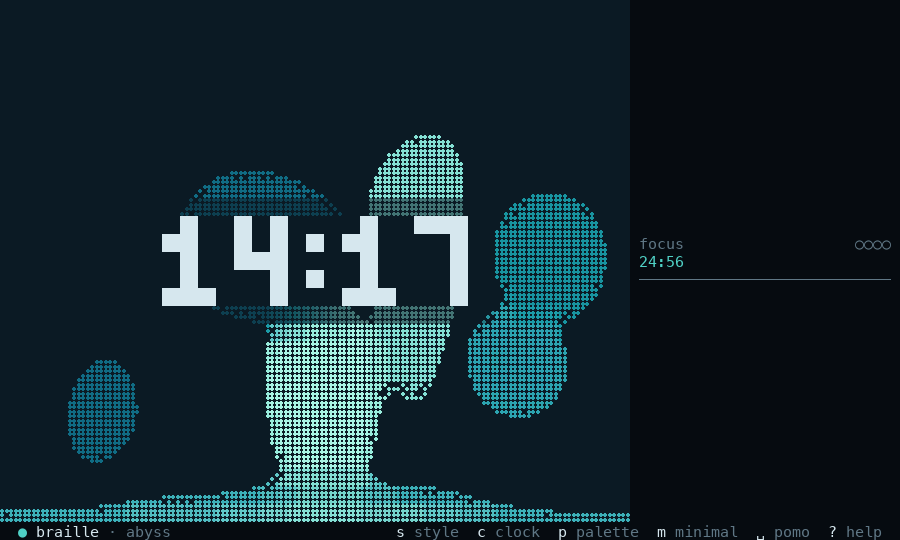
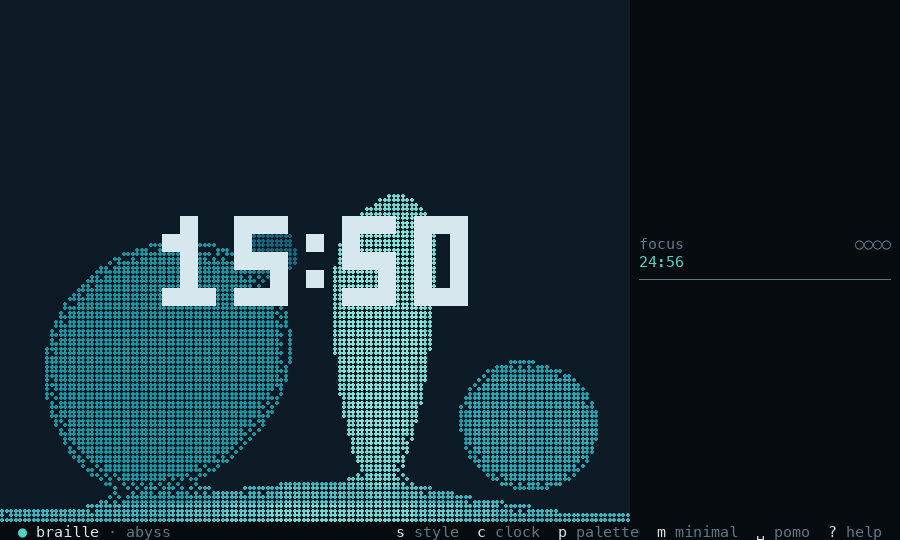
Floating widgets: quiet inks stay quiet, lyrics floats over the pool (lava-9vj.8, lava-ggz)
A word keeps its own ink down to how well that ink reads on the plain
liquid when that's under 3:1 (paper's dim is 2.85:1), so dim lines keep
their hierarchy. Lyrics snapshots after the merge show the lamp in their
spaces; captures of lyrics at the bottom anchor over the heater pool
(80x24, 120x36; lava, synthwave, paper, mono; every style) read: words
over the pool go dark, a straddling word flips only letters that would
vanish. Design notes for music covers and lyrics updated; README
overlay screenshots regenerated.

Changed region(s): [[0.0311, 0.237, 0.6844, 0.9481]]

diff --git a/src/ui/dock.rs b/src/ui/dock.rs
@@ -60,8 +60,11 @@ pub fn draw_on_lava(buf: &mut Buffer, stack: &Stack, model: &Model, lamp: &Theme
 }
 
 /// Below this contrast ratio (WCAG) a floating word leaves its own ink
-/// for the palette's light or dark one.
+/// for the palette's light or dark one; or below how well its ink reads
+/// on the plain liquid, if that's less (paper's `dim`, 2.85 : 1), give or
+/// take [`SLACK`], so a palette's quiet ink stays quiet on its own liquid.
 const LEGIBLE: f32 = 3.0;
+const SLACK: f32 = 0.95;
 /// How much a word's ink from the last frame is favoured: another ink has
 /// to read this much better before the word flips, so a word flips once
 /// as wax drifts under it, never back and forth frame to frame.
@@ -203,6 +206,7 @@ fn float(buf: &mut Buffer, scratch: &Buffer, dim: Color, lamp: &Theme) {
         own.1
     };
     let (light_l, dark_l) = (lamp.luminance(light), lamp.luminance(dark));
+    let liquid_l = lamp.luminance(lamp.role(Role::Liquid));
     let lum = |ink| match ink {
         Ink::Light => light_l,
         Ink::Dark => dark_l,
@@ -234,8 +238,20 @@ fn float(buf: &mut Buffer, scratch: &Buffer, dim: Color, lamp: &Theme) {
             worst(&mut |_| light_l).map(|s| s * sticky(Ink::Light)),
             worst(&mut |_| dark_l).map(|s| s * sticky(Ink::Dark)),
         );
+        // The word's own ink, as it reads on the plain liquid.
+        let mut calm = f32::MAX;
+        for &i in &glyphs {
+            if let (Some(o), Some(l)) = (own_lum(scratch[at(i)].fg), liquid_l) {
+                calm = calm.min(theme::contrast(o, l));
+            }
+        }
+        let legible = if calm < LEGIBLE {
+            calm * SLACK
+        } else {
+            LEGIBLE
+        };
         let ink = match scores {
-            (Some(own), Some(l), Some(d)) if own < LEGIBLE => {
+            (Some(own), Some(l), Some(d)) if own < legible => {
                 if d > l {
                     Ink::Dark
                 } else {
@@ -516,6 +532,16 @@ mod tests {
         assert_eq!(ink_over(160), dark);
         assert_eq!(ink_over(133), dark, "inside the band: no flip back");
         assert_eq!(ink_over(100), text);
+    }
+
+    #[test]
+    fn a_quiet_ink_stays_quiet_on_its_own_liquid() {
+        // Paper's `dim` reads 2.85 : 1 on its liquid, under LEGIBLE.
+        let t = theme("paper");
+        let (liquid, dim) = (t.role(Role::Liquid), t.role(Role::Dim));
+        let buf = float_row(&t, &[(" ", liquid, liquid); 3], "thu", dim);
+        assert_eq!(buf[(0, 0)].fg, dim);
+        assert!(!buf[(0, 0)].modifier.contains(Modifier::BOLD));
     }
 
     #[test]

diff --git a/docs/design.md b/docs/design.md
@@ -826,7 +826,9 @@ or halo.
 **word**: glyphs joined along a line, and block glyphs up and down too,
 so a clock digit is one word and is never two-tone. A word keeps its own
 role ink (`text`, `accent`, `dim`) while that reads at least 3 : 1
-(WCAG contrast) against everything behind it, measured on what the eye
+(WCAG contrast; or as well as the ink reads on the palette's plain
+liquid, if that's less, so paper's 2.85 : 1 `dim` stays `dim` on its
+own liquid) against everything behind it, measured on what the eye
 sees there (a glyph style's own glyph counts half). Otherwise it takes
 whichever of the palette's light and dark inks (`text` and `bg`, the
 lighter first; white and black where they are the terminal's defaults)
@@ -913,8 +915,8 @@ the nearest xterm index in 256 colours, and no cover at all in 16
 colours or `NO_COLOR` (the cover forms aren't offered). Until the cover
 has arrived (or if it can't be had) a quiet placeholder holds its place
 (`bg` tinted 18 % toward `dim`, a dim `♪` in the middle), so nothing jumps
-when it lands. On the lava the cover is opaque; the soft backing frames
-it like the text.
+when it lands. On the lava the cover is opaque, drawn as it is (with
+`dock.backing = "soft"` the soft backing frames it like the text).
 
 **Without a player** the widget is one calm, dim sentence, wrapped at 20
 cols beside the lamp and 30 on the lava, and it has no chip: `♪ Spotify
@@ -982,7 +984,8 @@ the lamp's width pick the narrower ones on small lamps):
 ```
 
 **Look: no backing needed.** Role colours only, so it reads with or
-without the soft backing (lava-9vj.8 drops it by default): the current
+without the soft backing (none by default: the floating text's ink adapts
+to the wax, §4.6 "The backing"): the current
 line bold `text`, the others `dim`, lined up by the anchor (centred at
 the bottom). A line too wide for the form is cut with `…`, except the
 current one, which wraps onto the row below in the 3- and 5-row forms
